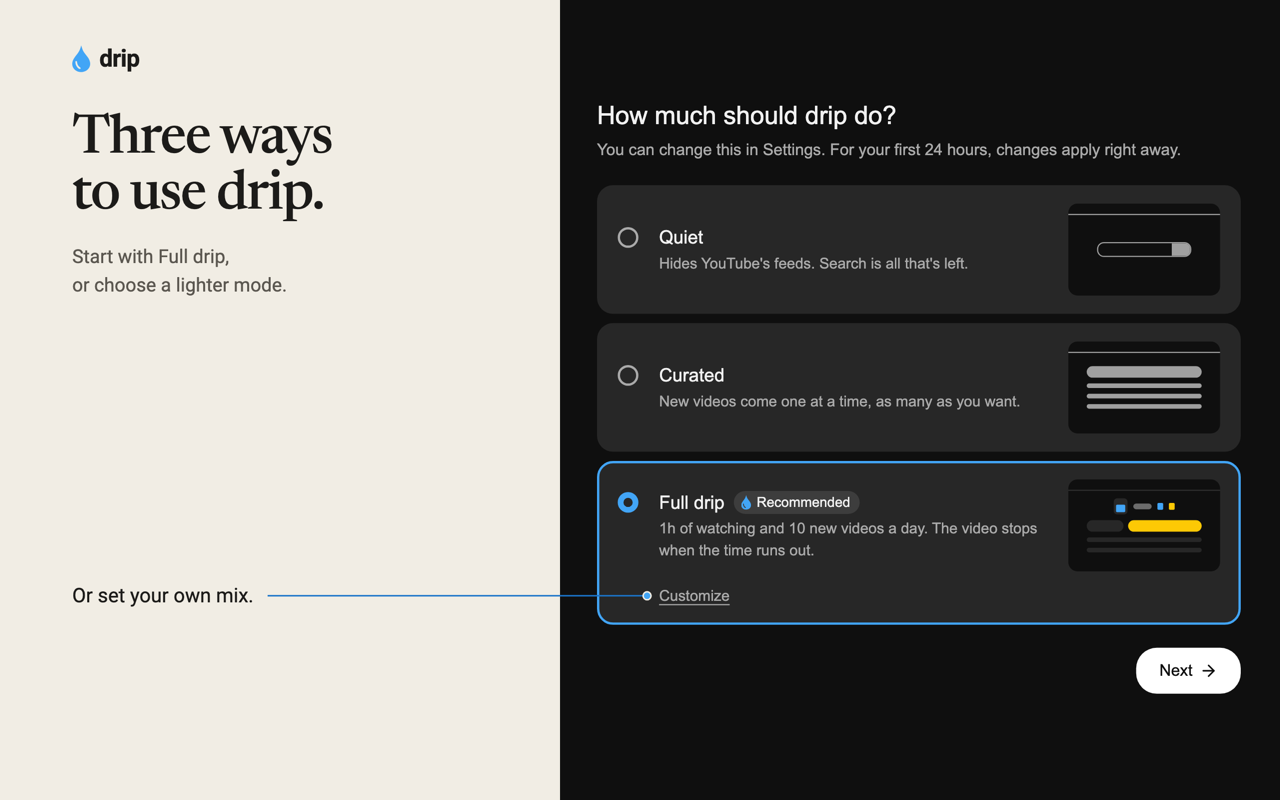
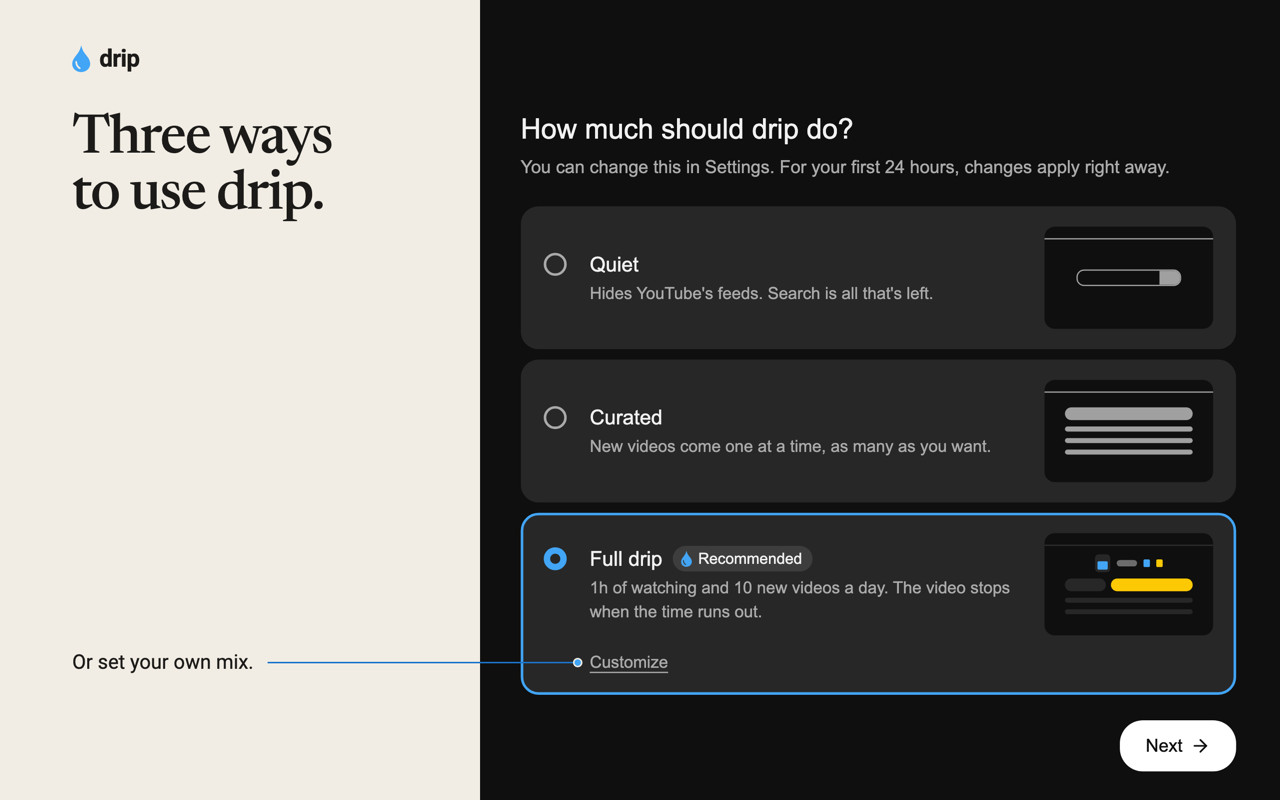
Store images, ref round 2: screenshot 3 without its subline, with a narrower caption panel and a bigger capture
Claude-Session: https://claude.ai/code/session_01BaVsJg78QBgFX9FYqzaUSR

diff --git a/store/art/frames-v2.html b/store/art/frames-v2.html
@@ -57,7 +57,8 @@
 <script>
   // @ts-check
   const params = new URLSearchParams(location.search);
-  const PANEL_LEFT = 560;
+  /** Where the strip starts; a shot's `panel` moves it (screenshot 3, ref round 2). */
+  let PANEL_LEFT = 560;
   /** History's card color, measured from a capture. */
   const CARD_GRAY = 'rgb(39, 39, 39)';
   /**
@@ -79,7 +80,7 @@
    * `gap` sets how far short of a side target the leader stops (12px by default). `nodot` ends the leader with no dot,
    * for a target that is itself a dot.
    * A shot's legend sits under the caption with no leader: drip's own drop and card, and what each one is.
-   * @type {Record<string, {h: string, p: string, src: string, w: number, h2: number, x: number, y: number, scale: number, motion?: boolean, css?: string, ready: string, step?: (d: Document) => void, notes?: Note[], legend?: boolean, bg?: string, water?: number, legendY?: number, foot?: string}>}
+   * @type {Record<string, {h: string, p: string, src: string, w: number, h2: number, x: number, y: number, scale: number, motion?: boolean, css?: string, ready: string, step?: (d: Document) => void, notes?: Note[], legend?: boolean, bg?: string, panel?: number, water?: number, legendY?: number, foot?: string}>}
    */
   const SHOTS = {
     1: {
@@ -160,9 +161,12 @@
     },
     3: {
       h: 'Three ways\nto use drip.',
-      p: 'Start with Full drip,\nor choose a lighter mode.',
+      // No subline: the Recommended badge and the three cards say it (both seats, ref round 2). The caption panel is
+      // 80px narrower and the capture 11% bigger, so the cards' descriptions read at carousel size (both seats).
+      p: '',
       src: '/dev/page.html?page=welcome',
-      w: 680, h2: 713, x: -32, y: -76, scale: 1.15,
+      panel: 480,
+      w: 680, h2: 713, x: -36, y: -84, scale: 1.278,
       // The page's own logo and tagline repeat the frame's mark.
       css: '.hero { visibility: hidden !important; }',
       ready: 'input[type=radio], [role=radio]',
@@ -208,6 +212,7 @@
   };
 
   const shot = SHOTS[params.get('shot') || ''];
+  if (shot?.panel) PANEL_LEFT = shot.panel;
   const tile = params.get('tile');
 
   /** The element a note points at, by selector or by its exact text. @param {Document} d @param {Note} n */
@@ -326,6 +331,7 @@
     /** @type {HTMLElement} */ (document.querySelector('h1')).textContent = shot.h;
     /** @type {HTMLElement} */ (document.querySelector('.copy p')).textContent = shot.p;
     const frame = /** @type {HTMLIFrameElement} */ (document.querySelector('iframe'));
+    /** @type {HTMLElement} */ (document.querySelector('.panel')).style.width = `${1280 - PANEL_LEFT}px`;
     Object.assign(frame.style, {
       width: `${shot.w}px`, height: `${shot.h2}px`, left: `${shot.x}px`, top: `${shot.y}px`, transform: `scale(${shot.scale})`,
     });

diff --git a/store/art/reviews/ref-2-claude.md b/store/art/reviews/ref-2-claude.md
@@ -1,0 +1,71 @@
+Reviewer report, ref round 2 (Claude seat). I looked at all 25 images in the order the brief gives.
+
+STEP 1: THE REFERENCES
+
+| Ref | Design | AI look |
+|---|---|---|
+| 01 | 6 | 7 |
+| 02 | 6 | 6 |
+| 03 | 5 | 8 |
+| 04 | 6 | 6 |
+| 05 | 7 | 5 |
+| 06 | 7 | 4 |
+| 07 | 5 | 7 |
+| 08 | 8 | 2 |
+| 09 | 9 | 2 |
+| 10 | 7 | 3 |
+| 11 | 8 | 2 |
+| 12 | 7 | 2 |
+| 13 | 8 | 2 |
+
+Median design is 7.
+
+The best ones (Adobe 08, 09 and NordPass 11, 13) make one claim per image, in 3 to 6 words, and show one real UI element large enough to read at carousel size. Usually it bleeds off an edge or overlaps a second layer (09's Edit panel over the browser, 11's dialog over the laptop), which gives depth without decoration. NordPass also keeps one system across the set: the teal, the fingerprint lines, the lime chip, and a huge headline that fills its column top to bottom. The weaker Monica ones (01, 03, 07) split the frame into panels, sprinkle sparkle emoji and 3D icons, fill the UI with AI-generated content, and run long sublines. They look templated.
+
+Text load: a typical reference has a 4 to 8 word headline, a 8 to 15 word subline, and at most one chip or label, about 15 to 25 words in all. Adobe runs about 4 words. Monica 01 is the outlier at 60 or more. Almost no reference uses leader-line callouts. Labels sit on the UI or as pills.
+
+STEP 2: DRIP'S SET ON THE SAME SCALE
+
+| Image | Design | AI look |
+|---|---|---|
+| 1 | 7 | 3 |
+| 2 | 6 | 4 |
+| 3 | 6 | 4 |
+| 4 | 7 | 3 |
+| 5 | 7 | 3 |
+| tile | 7 | 4 |
+
+1. At the middle. The real header (glass, 34m, drop and card counts) and the illustration carry it. About 35 words of caption is above the reference norm, but it's organized.
+2. Below the middle. The strip is a blur with a dark panel on it, and nothing in the image reads as a video or as water rising. With the band gone, the cream panel's bottom 45% is empty. To bring it up, give the frame one more real element showing cause. My suggestion: put drip's real header counter at zero (empty glass, "0m left today") in the cream panel's lower half, captured from code like the strip. That shows "time ran out" next to its result. This is a judgment call about the "real interface only" limit. It's real UI, just placed in the frame. If that counts as a composite you won't allow, then at least scale the lock capture up about 10% so the panel and its buttons dominate. Don't scale it down, as one reviewer asked last round. That would make the emptiest frame emptier.
+3. Below the middle. The mode cards are small: the descriptions are about 15px, so about 7px in the store carousel. There's a 280px gap between the subline and the single note. To bring it up, narrow the cream panel from 560px to about 460px and scale the capture up to fill. I agree with the one reviewer who asked for this.
+4. At the middle. It's the clearest of the set: one claim, one note, and the note points at the exact chip that proves it.
+5. At the middle. The chart is a strong visual and the sample label is in the subline. The left column is 60% empty, but the chart side balances it.
+Tile: at or slightly above what a tile needs. The drop, the wordmark, and a two-line tagline read at 440x280. At the half-size store list thumbnail, the serif tagline's strokes get thin.
+
+Verdict:
+- Ship: yes.
+- Blocking fixes: none. I checked the claims against each other and they hold: 4 drops x 15m = 1h on the Full drip card; screenshot 1's 34m with 2 drops left; the bars average about 40m against the 41m label; the dashed line at about 48m; 15% down from 48 to 41. Nothing looks broken and nothing promises an outcome.
+
+STEP 3: COMPARED WITH LAST ROUND, AND THE TEXT
+
+1. Better. The cut note restated the "-1 card" on the button, and "Sample video." fixes the real-looking channel line. The cost is an empty bottom-left.
+2. Better, narrowly. The band's crest dying at the seam looked like a mistake, and removing it was right. But the frame lost its only visual tie to the water and is now the weakest of the set.
+3. Slightly better. The cut note repeated the Full drip card. The one remaining note now sits alone low in the column.
+4. Same. "the daily reset" is clearer than "reset", and nothing else changed.
+5. Better. The Saturday note restated the tiles, and the shorter subline reads faster.
+Tile: same. It's unchanged.
+
+Text, frame by frame:
+1. "Sample video." is needed but placed as an orphan. Under the subline, it reads like a footnote to the product description. The legend lines are both needed, because the header shows "2" and "7" with no units. Shorter legend lines (last round's one-reviewer ask) isn't a real problem. They're already 6 words each. Nothing is missing.
+2. Both subline lines are needed. "Or spend a drop for 15 more minutes." is needed because it's the only thing that explains "-1" and the drop on the button. I disagree with cutting it. "I need this one · 3 left this week" goes unexplained, but it's UI text and a buyer can guess. Nothing is missing.
+3. "Start with Full drip, or choose a lighter mode." mostly repeats the Recommended badge. It's the one line in the set a buyer doesn't need, and I'd cut it. Keep "Or set your own mix." because Customize is small and easy to miss.
+4. Both the subline and the note are needed. The headline's claim only makes sense once the note shows a raise being delayed. Nothing is missing.
+5. "Sample week: 41 minutes a day, down from 48." repeats the 41m and 48m the strip shows in large type. Its only real job is "Sample week." It's acceptable as is. Nothing is missing.
+
+STEP 4: TOP-5 FIXES, MOST IMPACT FIRST
+
+1. Screenshot 2, cream panel: add a second real drip element that shows the cause, the header counter at zero (empty glass, "0m left today"), in the empty lower half. Failing that, scale the lock capture up about 10%. It's the weakest frame, and right now it shows a blur and a dialog.
+2. Screenshots 1 to 5, caption type: raise the subline from about 19px to about 22px and darken its gray. Raise the headline about 15%. At carousel scale the sublines and notes drop below 10px, and the reference sublines run 22 to 24px. Bigger type also fills the dead space the cuts left.
+3. Screenshot 3, layout: narrow the cream panel to about 460px and scale the welcome capture up to match, so the three card descriptions are readable in the store carousel.
+4. Screenshot 1, "Sample video.": move it out from under the subline and make it a small note with a leader line to the channel row ("Wet Gravel Club · 84K views · 1w ago") at y≈646, worded "Sample video and channel." That ties the label to what looks real and uses the empty bottom-left.
+5. Tile, tagline: set "One video at a time." one weight heavier (semibold), so it holds at the half-size list thumbnail. The 440px version is fine. The small rendering is where it thins out.

diff --git a/store/art/reviews/ref-2-prompt.md b/store/art/reviews/ref-2-prompt.md
@@ -1,0 +1,89 @@
+You are one reviewer on a two-reviewer panel judging a set of Chrome Web Store listing images. Do not edit or create any files. Report only. Judge only what you see in the attached images.
+
+## The product
+
+drip is a Chrome extension that replaces YouTube's endless home feed with a search box or one recommended video at a time, with optional daily watch-time limits. Its tokens are a blue cartoon "drop" (15 minutes of watching by default) and a gold cartoon "card" (reveals one new video). When the minutes run out, a lock comes up over the paused video with blue water rising. The tone it aims for: a little character without being distracting. It's a small one-person project, not a company.
+
+## The images, attached in this order
+
+First, 13 reference images: ref-01.png to ref-13.png, all 1280x800. They are screenshots from top Chrome Web Store extensions, from several companies. They are the bar.
+
+Then drip's set, the images under review:
+1. screenshot-1.png (1280x800): the home page with one revealed video. The video thumbnail is a drawn illustration, since real YouTube thumbnails can't be used.
+2. screenshot-2.png (1280x800): the lock screen that covers a video when the day's minutes run out.
+3. screenshot-3.png (1280x800): the welcome page's mode choice.
+4. screenshot-4.png (1280x800): the Settings tab.
+5. screenshot-5.png (1280x800): the History tab, with a sample week.
+6. tile-c2.png (440x280): the small promo tile, shown small in store search and category lists. None of the references is a tile, so judge it against what a tile has to do at that size.
+
+After those six, the previous version of each is attached in the same order: prev-screenshot-1.png to prev-screenshot-5.png and prev-tile-c2.png. Score only the current six. Use the previous ones for the comparison asked for below.
+
+Each drip screenshot is a frame: a cream caption panel on the left with a headline, a subline, and one or two notes (most with a leader line pointing at a real element), and on the right a full-height strip of the real extension page, rendered from drip's real code.
+
+## Hard limits
+
+These can't change, so don't ask for them:
+- Only drip's real interface, captured from its code. No mock UI, and drip's own interface text and layout stay as they are.
+- Claims must match the product. Nothing that promises an outcome.
+- No YouTube logo. Sample data must be labeled or obviously sample.
+
+Anything else can change: the frame, the caption copy (or having less of it), the crop and scale of the captured page, the illustration, the sample data, the layout of the frame.
+
+A technical fact about screenshot 2: the lock in the strip is drawn with its water all the way up. Showing the water partway doesn't work: the paused video sits behind the lock's panel, and a water surface high enough to clear the panel leaves only blurred gray above it. The lock's blur is drip's real 20px blur, so anything drawn under it turns into soft color fields.
+
+## Decisions so far
+
+The set went through one review round against these references. You may disagree with any decision below, but if you ask to undo one, say that you are reversing it and why.
+
+Changed since the last review:
+- Screenshot 1: the note "Not this one? The next pick costs a card." is cut; the card legend line and the button's "-1" say it. "Sample video." is added under the subline, because the channel name, views, and age look real.
+- Screenshot 2: the drawn water band across the bottom of the cream panel, and its note "At 0 minutes left, the video pauses under the water.", are cut. The band's crest ended at the seam with no surface beside it. The pause moved into the subline: "An optional daily limit. When it's used up, the video pauses." The other note is shorter: "Or spend a drop for 15 more minutes." (Drops carry over from earlier days, so a spare drop after a full day is normal.)
+- Screenshot 3: the note "The default: 4 drops and 10 cards a day." is cut; the Full drip card says it in plainer words.
+- Screenshot 4: the subline says "the daily reset" instead of a bare "reset".
+- Screenshot 5: the note "Saturday: 30 minutes, exactly 2 drops." is cut, since the tiles show it, and the subline is shorter.
+- Tile c2: unchanged. The last review found the two-line tagline readable.
+
+Not done, each asked by only one reviewer: shorter legend lines on screenshot 1; cutting screenshot 2's remaining note; cutting screenshot 3's subline or its "Or set your own mix." note; a narrower caption panel or a bigger capture on 3 and 4; a smaller strip scale on 2; a heavier tagline on the tile.
+
+## What to report
+
+Plain text. Be direct and critical. Don't pad with praise. If you think one of the questions below names a problem that isn't real, say so.
+
+### Step 1: the references first
+
+Before you look closely at drip's set, score the 13 references in one table:
+
+| Ref | Design | AI look |
+|---|---|---|
+| 01 | n | n |
+...
+
+- Design: 1 to 10, where 10 is a top-tier store listing image.
+- AI look: 1 to 10, where 1 looks made by a human designer with intent and 10 looks obviously AI-generated or templated.
+
+Then, in a few lines: what the best references do that the weaker ones don't. Count roughly how much text a typical reference carries (headline, subline, labels, callouts).
+
+### Step 2: drip's set on the same scale
+
+Scores for drip's six, on the same scale as the references:
+
+| Image | Design | AI look |
+|---|---|---|
+| 1 | n | n |
+...
+
+For each of drip's six, say where it sits against the references: above the middle of them, at the middle, or below. For any image below the middle, say specifically what would bring it up, concrete enough to act on (name the element and the change).
+
+Then your verdict for the set:
+- Ship: yes or no.
+- Blocking fixes: changes that must happen before you'd ship it. Only real problems: wrong claims, things that look broken, things that would confuse a buyer. Not polish.
+
+### Step 3: compared with last round, and the text
+
+For each of the six, say whether it is better, the same, or worse than its previous version, and why in one line.
+
+Then, frame by frame: is any caption, subline, note, or legend line left that a buyer doesn't need, or is anything now missing that a buyer does need after the cuts? Name the exact line.
+
+### Step 4: fixes
+
+A ranked top-5 list of fixes across the whole set, most impact first, each naming the image, the element, and the change.

diff --git a/store/art/reviews/ref-2-codex.md b/store/art/reviews/ref-2-codex.md
@@ -1,0 +1,82 @@
+| Ref | Design | AI look |
+|---|---|---|
+| 01 | 6 | 6 |
+| 02 | 7 | 5 |
+| 03 | 7 | 7 |
+| 04 | 7 | 4 |
+| 05 | 8 | 5 |
+| 06 | 7 | 5 |
+| 07 | 6 | 7 |
+| 08 | 8 | 2 |
+| 09 | 8 | 2 |
+| 10 | 8 | 3 |
+| 11 | 9 | 2 |
+| 12 | 8 | 2 |
+| 13 | 9 | 2 |
+
+“AI look” describes appearance, not provenance.
+
+The best references give one feature a clear visual center. Their headline, product capture, and supporting text all explain the same thing. The weaker ones scatter attention across floating badges, sparkles, tiny interface text, and several competing examples.
+
+A typical reference carries roughly 20–40 words outside the captured interface: a 3–12-word headline, a 10–18-word subline, and a few labels. References 08–10 use only 3–6 words. Drip does not have an unusually high word count. Its explanatory copy requires more sequential reading than most of these references.
+
+| Image | Design | AI look |
+|---|---|---|
+| 1 | 8 | 2 |
+| 2 | 7 | 2 |
+| 3 | 7 | 2 |
+| 4 | 7 | 2 |
+| 5 | 8 | 1 |
+| Tile c2 | 8 | 1 |
+
+1. At the middle. The single video and two token types are understandable. The illustration is the weakest visual element: the small cyclist and broad, flat landscape make it feel more like placeholder artwork than a video someone would choose. A larger cyclist and a more distinctive ridge scene would improve it.
+
+2. Below the middle. The large black modal dominates, while the blurred background contributes little readable context. Reduce the capture scale about 10%, keeping the modal centered and all its text readable. More space around it would make the composition less cramped. The missing water surface is not a problem to solve. Do not restore the cream-panel water band.
+
+3. Below the middle. It spends a large caption panel explaining a choice that the interface already explains. Narrow the cream panel from 560px to about 480px, enlarge the capture to use that space, and cut the subline. Keep all three choices and the Customize link visible.
+
+4. Below the middle. The delayed-change chip is the evidence for the headline, but it is much less prominent than the surrounding settings. Crop and enlarge the capture around Mode, Watch time, Drops per day, and Minutes per drop. The lower Dry hours controls can leave the frame. Keep the leader attached to the delayed-change chip.
+
+5. At the middle. The chart, daily average, and selected-day totals form a readable whole. The empty cream area is not itself a defect. Adding another note would make this worse.
+
+Tile c2. At the middle for execution, judged for its small-format job. The drop and name remain recognizable when reduced. The tagline is secondary but readable. A heavier tagline is not a necessary fix. It does not explain YouTube by itself, but it will appear beside listing text.
+
+Ship: yes.
+
+Blocking fixes: none. I see no wrong claim, broken-looking element, or buyer confusion serious enough to hold the set. The crop changes above are polish.
+
+Compared with the previous versions:
+
+1. Better. “Sample video.” resolves the realistic-looking metadata, and removing the bottom callout gives the action row room.
+2. Better. Removing the disconnected water crest fixes a visual discontinuity. The new subline states the pause behavior directly.
+3. Better. Removing the default-count note leaves one useful callout instead of two competing explanations.
+4. Slightly better. “The daily reset” makes the timing rule more understandable.
+5. Better. The removed Saturday note duplicated the selected-day display and pulled attention away from the weekly view.
+6. The same. No visible change.
+
+Text remaining, frame by frame:
+
+1. Keep “Sample video.” Keep both token definitions, but shorten them:
+   “A drop is 15 minutes by default.” → “Drop: 15 minutes by default.”
+   “A card reveals one new video.” → “Card: reveal one new video.”
+   Nothing needs restoring from the removed callout.
+
+2. Keep “An optional daily limit. When it’s used up, the video pauses.” It supplies behavior the static image cannot demonstrate. Keep “Or spend a drop for 15 more minutes.” It translates the token button for a newcomer. Cutting that remaining note is not necessary.
+
+3. “Start with Full drip, or choose a lighter mode.” is expendable. The selected card, Recommended badge, and three visible options already communicate it. Keep “Or set your own mix.” because it points out customization beyond the presets. The removed default-count note is not missing.
+
+4. Keep the subline and “Raised to 5 drops. Today stays at 4 until 4:00am.” The note demonstrates the rule rather than merely naming it. This frame’s problem is the size of that evidence, not excess copy.
+
+5. “Sample week: 41 minutes a day, down from 48.” repeats the chart’s numbers. “A sample week of watch time.” would preserve the required sample label with less reading. No note needs restoring.
+
+6. Keep “One video at a time.” It gives the name a useful meaning. Do not add token explanations to this tile.
+
+Ranked top five, all nonblocking:
+
+1. Image 4, capture: enlarge the delayed-change chip and its surrounding watch-time settings; crop out the lower Dry hours controls.
+2. Image 3, frame: narrow the caption panel to about 480px, enlarge the three mode cards, and remove “Start with Full drip, or choose a lighter mode.”
+3. Image 1, thumbnail illustration: enlarge the cyclist and give the ridge and approaching storm more specific detail. Preserve the drawn treatment and sample label.
+4. Image 2, capture scale: reduce it about 10% to give the modal more surrounding space. Keep the fully raised water and real blur.
+5. Image 1, token legends: use “Drop: 15 minutes by default.” and “Card: reveal one new video.” The current wording is accurate but slower to scan.
+
+Checked all 13 references, the current six, and their previous versions visually. I did not inspect code or run the extension.

diff --git a/store/art/STATE.md b/store/art/STATE.md
@@ -17,10 +17,10 @@ A fresh pass on the round-19 set, judged against 13 top Chrome Web Store extensi
 
 ## Current
 
-- Round: 2 next.
-- Tactic: fix.
-- Base: `frames-v2.html` with ref round 1's cuts (this commit).
-- Next step: round 2 on the new set, with ref round 1's set alongside for the comparison and the decisions below in the brief.
+- Round: 3 next.
+- Tactic: fix for the set, divergent for screenshot 2 alone (each seat proposes one approach far from the current one; round 4 builds and compares them).
+- Base: `frames-v2.html` with ref round 2's screenshot 3 layout (this commit).
+- Next step: round 3.
 
 ## Score history
 
@@ -31,9 +31,28 @@ Design/AI look per image, and the seat's median for the references.
 | 1 | Claude | 7/4 | 8/3 | 6/4 | 7/3 | 7/3 | 7/3 | 7/3 |
 | 1 | Codex | 8/5 | 7/2 | 7/2 | 7/2 | 7/2 | 8/2 | 8/1 |
 
-Below the references' middle in round 1: Codex 1, 2, 3, 4; Claude 2.
+| 2 | Claude | 7 | 7/3 | 6/4 | 6/4 | 7/3 | 7/3 | 7/4 |
+| 2 | Codex | 8 | 8/2 | 7/2 | 7/2 | 7/2 | 8/1 | 8/1 |
+
+Below the references' middle in round 1: Codex 1, 2, 3, 4; Claude 2. Round 2: Codex 2, 3, 4; Claude 2, 3. Both seats: ship, no blocking fixes.
 
 ## Decisions log
+
+### Ref round 2
+
+Used: the Claude seat 90,003 tokens; Codex 43,253 tokens (25 images each).
+
+Compared with round 1: both seats called 1, 2, 3, and 5 better (Claude: 4 the same, Codex: 4 slightly better); the tile the same.
+
+Applied, Agreed (both seats):
+- 3: no subline (it repeated the Recommended badge), and the caption panel is 480px wide instead of 560, with the capture 11% bigger (scale 1.278), so the cards' descriptions read at carousel size. `frames-v2.html` takes a per-shot `panel` for this.
+
+Not applied, the seats split:
+- 2's capture scale: Claude asked about 10% up, Codex about 10% down. Both tried (variants 2b at 1.87 and 2c at 1.6, not kept): at 1.87 the lock's panel reaches the seam and the right edge; below about 1.66 the tour stage's edge shows at the right and bottom. Neither fits, and 2 stays below the middle for both seats, so round 3 asks each seat for one approach far from the current one.
+
+Considered, not applied (one seat):
+- Codex: 4 cropped tighter around Watch time, without Dry hours (second round asking); 1's legend as "Drop: 15 minutes by default." and "Card: reveal one new video." (Claude disagreed); a larger cyclist and more detail in 1's thumbnail (second round); 5's subline "A sample week of watch time."
+- Claude: drip's real header counter at zero in 2's cream panel; captions bigger (sublines 19 to 22px, headlines 15% up) and the subline gray darker; 1's "Sample video." as a note with a leader to the channel row, worded "Sample video and channel."; the tile's tagline in semibold (second round asking; Codex said not needed).
 
 ### Ref round 1
 
